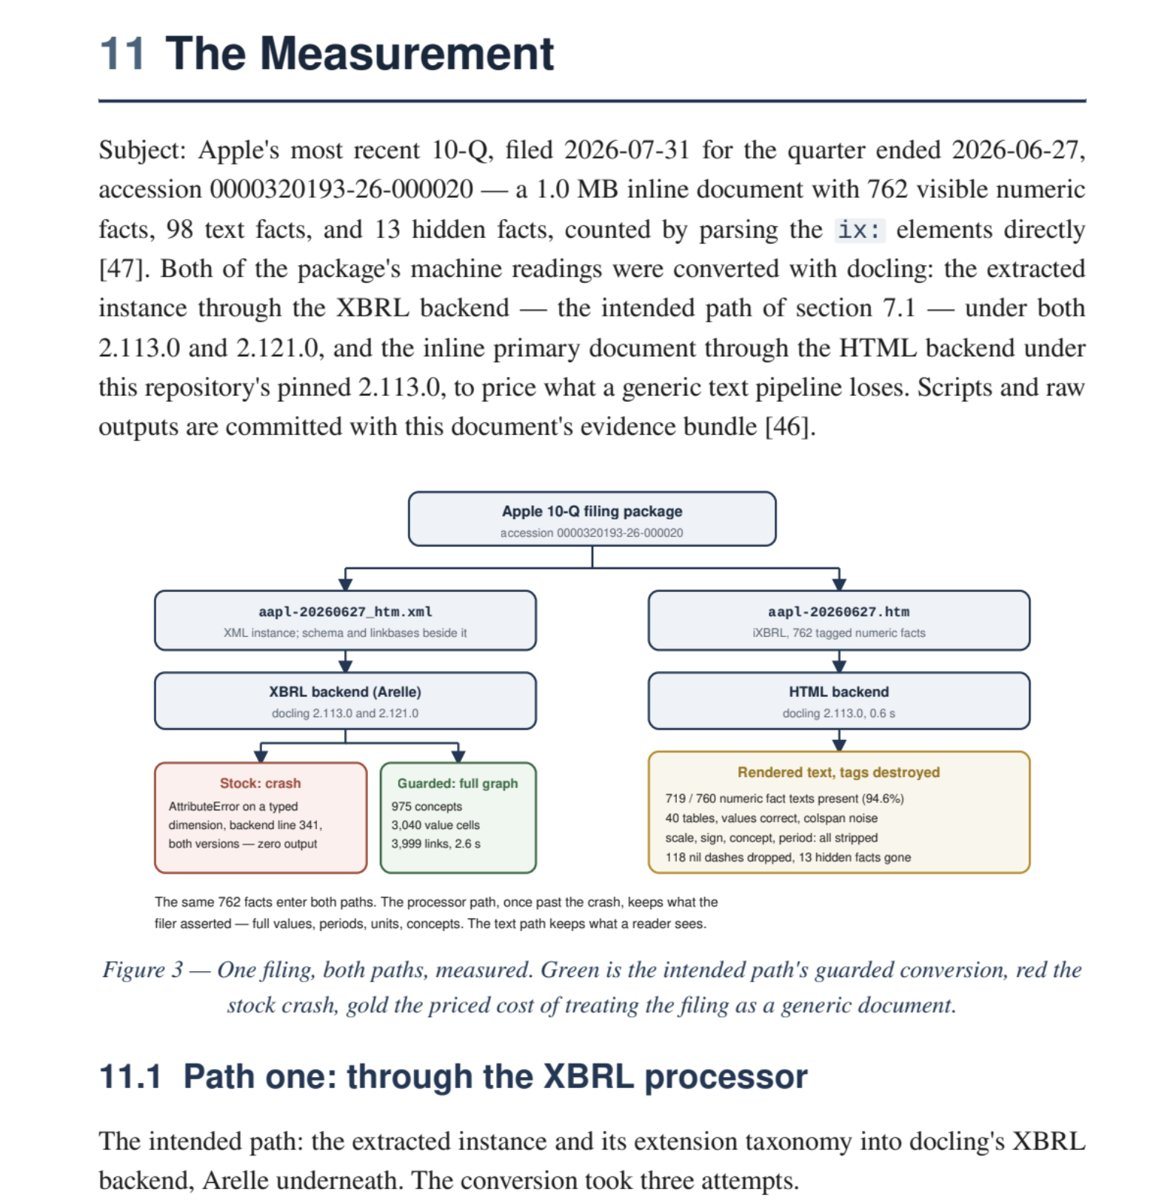
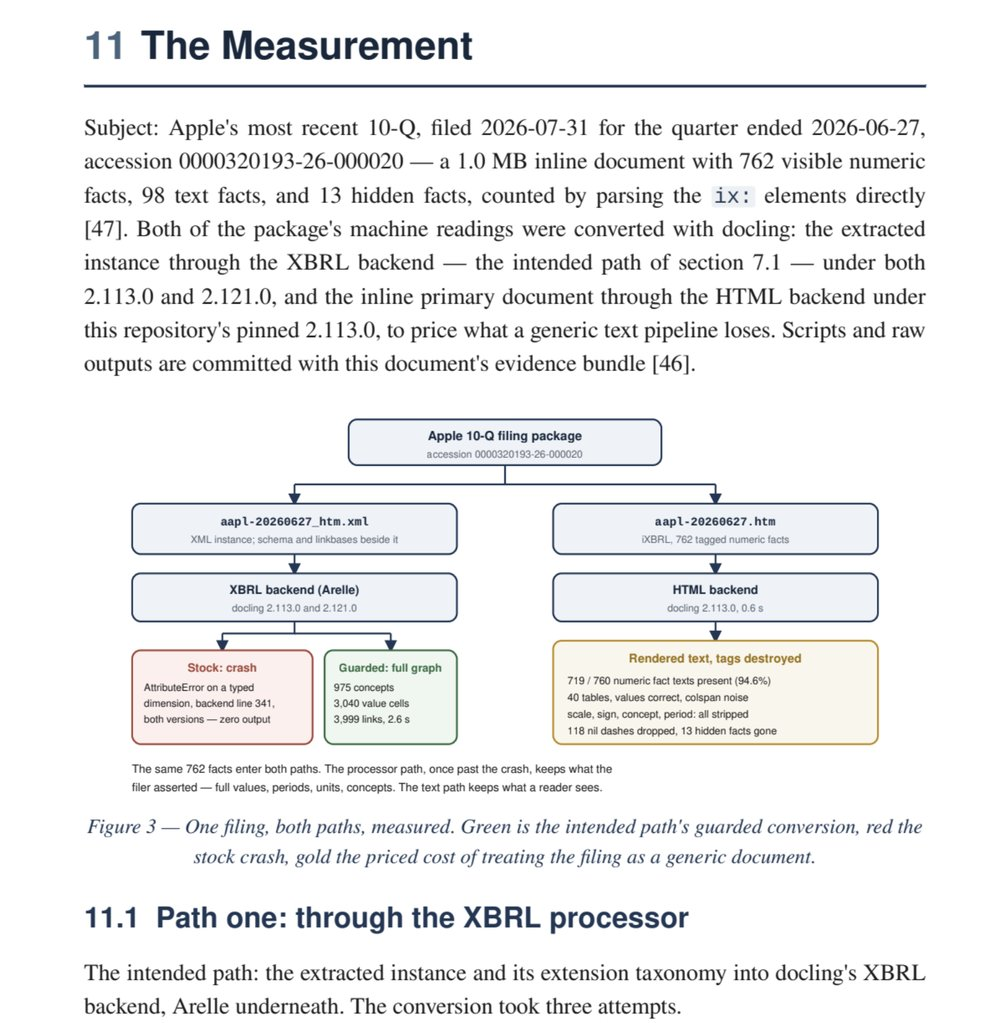
textbook: equal-height README screenshots with minimal captions

diff --git a/README.md b/README.md
@@ -78,12 +78,12 @@ Turns technical content (a design, a plan, a subsystem explainer, a research rep
 
 <table>
   <tr>
-    <td width="50%"><img src="./plugins/textbook/assets/screenshots/title-page.jpg" alt="Textbook title page: XBRL: A Primer"></td>
-    <td width="50%"><img src="./plugins/textbook/assets/screenshots/measurement-page.jpg" alt="Textbook body page with a numbered section, cited prose, and an inline SVG diagram"></td>
+    <td width="50%"><img src="./plugins/textbook/assets/screenshots/title-page.jpg" alt="Example title page"></td>
+    <td width="50%"><img src="./plugins/textbook/assets/screenshots/measurement-page.jpg" alt="Example body page"></td>
   </tr>
   <tr>
-    <td align="center"><sub>Title page</sub></td>
-    <td align="center"><sub>Body page: numbered section, cited sources, inline SVG figure</sub></td>
+    <td align="center"><sub>Example title page</sub></td>
+    <td align="center"><sub>Example body page</sub></td>
   </tr>
 </table>
 

diff --git a/plugins/textbook/README.md b/plugins/textbook/README.md
@@ -4,12 +4,12 @@ Turns technical content (a design, a plan, a subsystem explainer, a research rep
 
 <table>
   <tr>
-    <td width="50%"><img src="./assets/screenshots/title-page.jpg" alt="Textbook title page: XBRL: A Primer"></td>
-    <td width="50%"><img src="./assets/screenshots/measurement-page.jpg" alt="Textbook body page with a numbered section, cited prose, and an inline SVG diagram"></td>
+    <td width="50%"><img src="./assets/screenshots/title-page.jpg" alt="Example title page"></td>
+    <td width="50%"><img src="./assets/screenshots/measurement-page.jpg" alt="Example body page"></td>
   </tr>
   <tr>
-    <td align="center"><sub>Title page</sub></td>
-    <td align="center"><sub>Body page: numbered section, cited sources, inline SVG figure</sub></td>
+    <td align="center"><sub>Example title page</sub></td>
+    <td align="center"><sub>Example body page</sub></td>
   </tr>
 </table>
 
